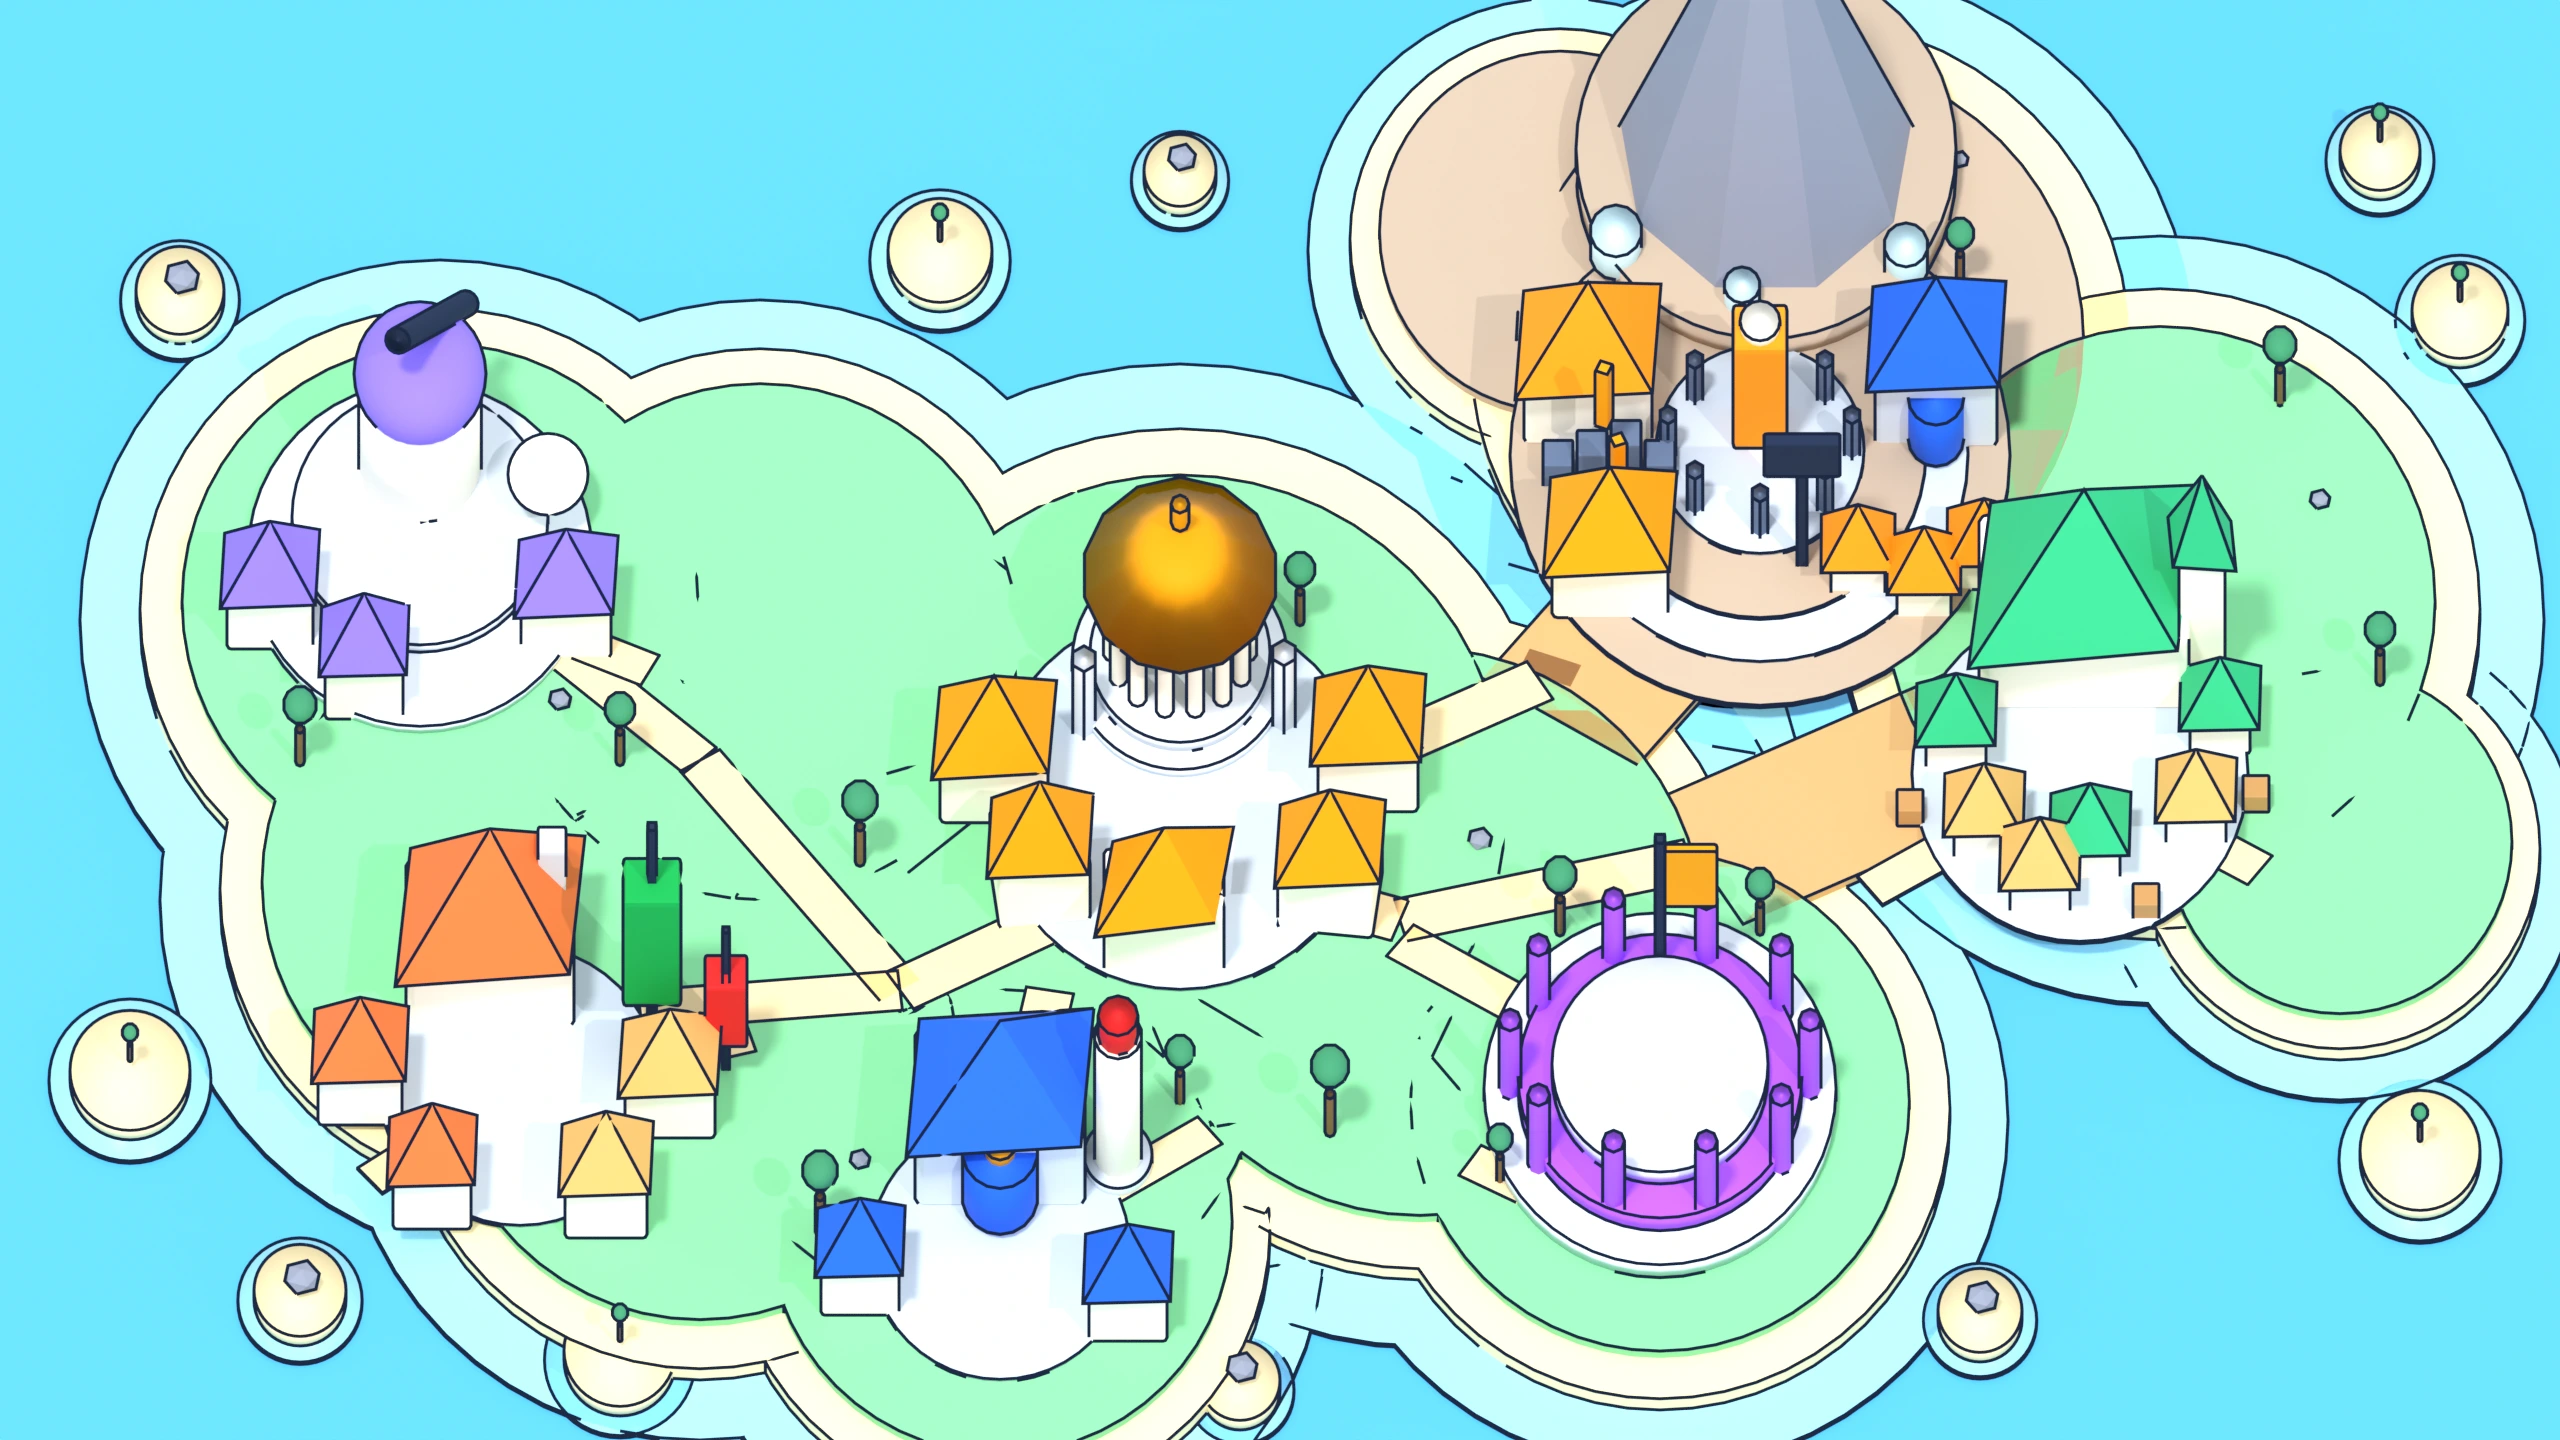
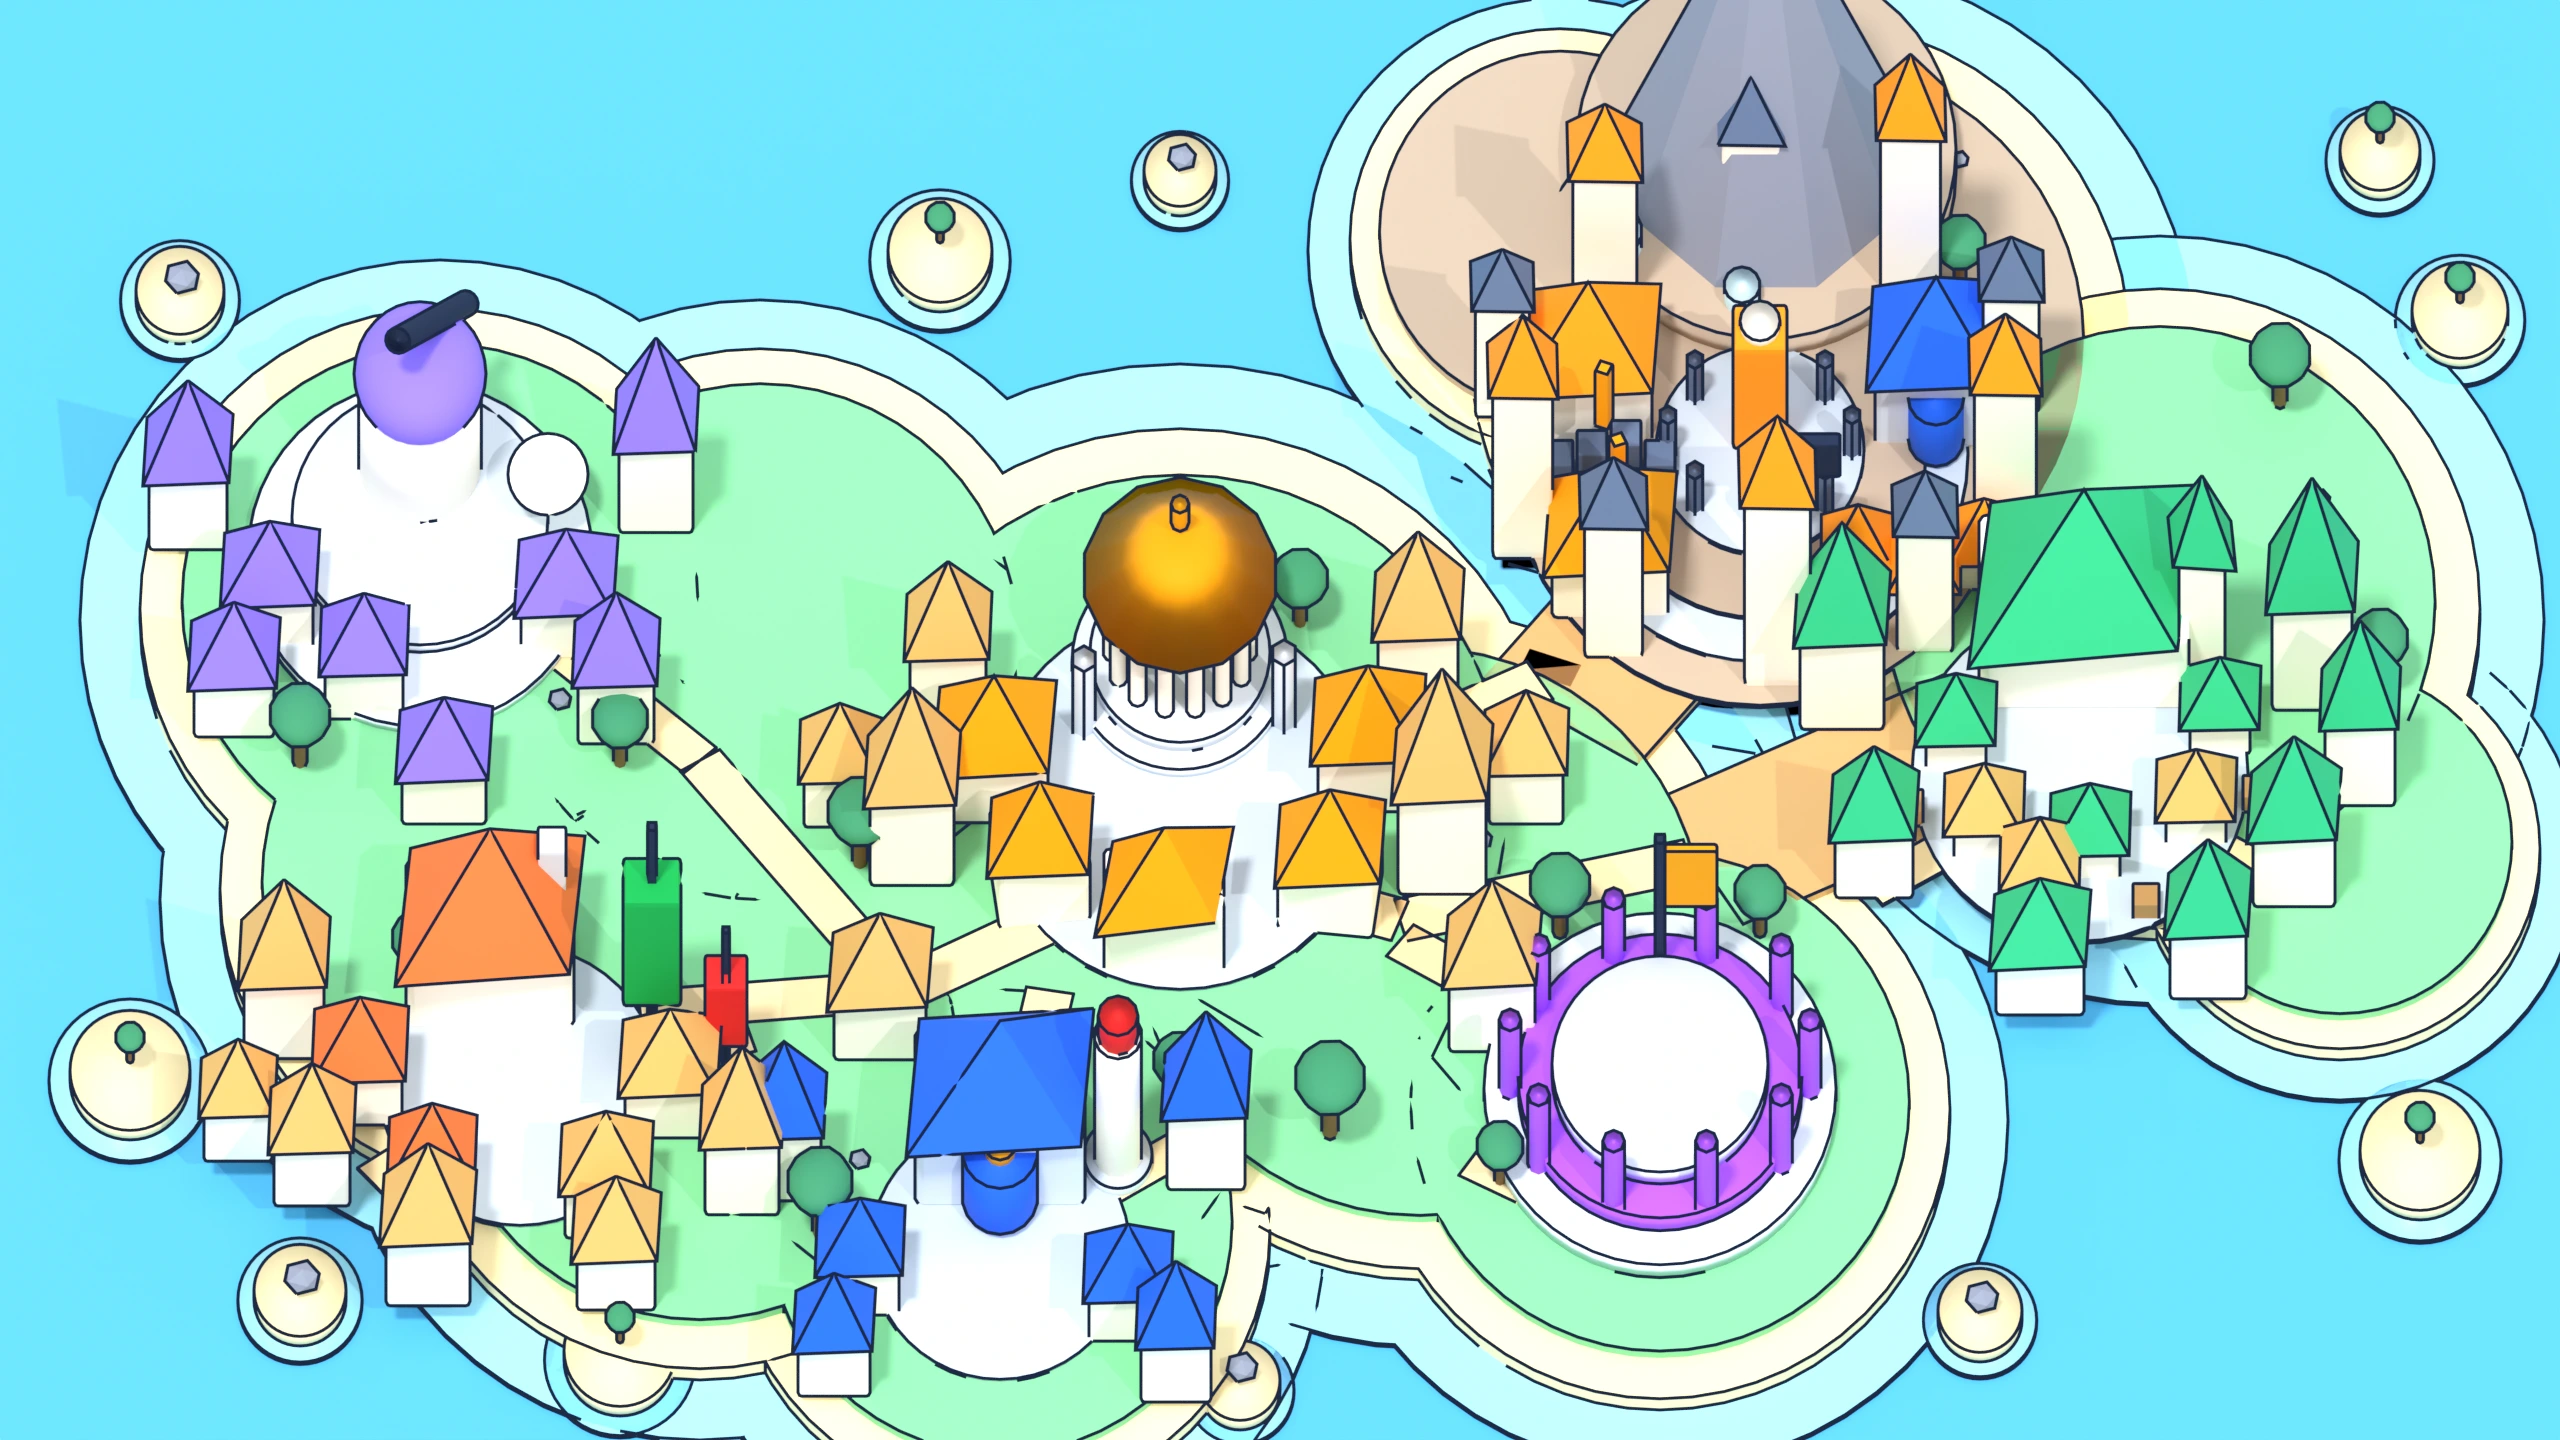
feat: denser city cores and wider tree canopies
Each city gains a ring of buildings at varied heights so the silhouette reads as a skyline rather than a flat hamlet, and Ciudad Bitcoin - the one with documented content - gets ten towers of alternating height around its ring road, making it the most imposing place on the map.

Trees had a 13px canopy on a 3.4px trunk and read as pins stuck in the grass; the canopy is now 24px on a shorter, thicker trunk.

The new blocks covered three approach points, so those moved: market-plaza to (1815,758), candle-workshop to (786,1011), trend-observatory to (661,598). Two Academia blocks also enclosed the plaza the player starts in and left the search with no way out - they were moved off the southern corridor.

diff --git a/src/game/phaser/AcademyAgoraScene.ts b/src/game/phaser/AcademyAgoraScene.ts
@@ -197,19 +197,19 @@ export default class AcademyAgoraScene extends BaseWorldScene {
       {
         id: "market-plaza",
         area: new Phaser.Geom.Rectangle(1900, 580, 400, 340),
-        approach: new Phaser.Math.Vector2(1887, 784),
+        approach: new Phaser.Math.Vector2(1815, 758),
         prompt: "Entrar a Mercado Plaza · Misión 1.1",
       },
       {
         id: "candle-workshop",
         area: new Phaser.Geom.Rectangle(330, 900, 400, 340),
-        approach: new Phaser.Math.Vector2(748, 1077),
+        approach: new Phaser.Math.Vector2(786, 1011),
         prompt: "Entrar al Taller de Velas · Misión 1.2",
       },
       {
         id: "trend-observatory",
         area: new Phaser.Geom.Rectangle(240, 390, 380, 330),
-        approach: new Phaser.Math.Vector2(644, 620),
+        approach: new Phaser.Math.Vector2(661, 598),
         prompt: "Entrar al Observatorio · Misión 1.3",
       },
       {

diff --git a/blender/build_overworld.py b/blender/build_overworld.py
@@ -100,9 +100,9 @@ BITCOIN_HEX = "#F7931A"        # tp-crypto
 REQUIRED_WALKABLE_PX = {
     "player-start": (1180, 1000),
     "approach:aria": (1225, 976),
-    "approach:market-plaza": (1887, 784),      # sobre el puente
-    "approach:candle-workshop": (748, 1077),
-    "approach:trend-observatory": (644, 620),
+    "approach:market-plaza": (1815, 758),
+    "approach:candle-workshop": (786, 1011),
+    "approach:trend-observatory": (661, 598),
     "approach:bitcoin-portal": (1660, 640),    # sobre el puente
     "approach:risk-vault": (1120, 1200),
     "approach:challenge-arena": (1467, 1163),
@@ -473,6 +473,17 @@ def house(cam, name, px, py, w_px, d_px, height, mat_roof, mats, rot=0.0):
                GRASS_TOP + height, mat_roof)
 
 
+def skyline(cam, name, px, py, blocks, mats, mat_roof):
+    """Manzana de edificios alrededor de un centro.
+
+    `blocks` es una lista de (dx, dy, ancho, fondo, altura). La altura varía a
+    propósito: con todos los edificios a la misma cota el conjunto se leía como
+    una aldea plana en vez de un núcleo urbano.
+    """
+    for i, (dx, dy, w, d, h) in enumerate(blocks):
+        house(cam, f"{name}_blk_{i}", px + dx, py + dy, w, d, h, mat_roof, mats)
+
+
 def add_academia(cam, px, py, mats):
     """Academia Ágora — capital académica. Rotonda con columnata sobre plaza.
 
@@ -512,6 +523,14 @@ def add_academia(cam, px, py, mats):
     for i, (dx, dy) in enumerate(((-96, -34), (104, -40))):
         disc_px(cam, f"academia_obelisk_{i}", px + dx, py + dy, 13,
                 GRASS_TOP, 1.5, mats["stone"], verts=6)
+    # Nada al sur del pin: por ahí sale el jugador y ahí está ARIA. Dos bloques
+    # a ±70 px encerraron la plaza y la búsqueda no encontraba salida desde el
+    # punto de partida.
+    skyline(cam, "academia", px, py, [
+        (-268, 96, 84, 60, 1.9), (262, 104, 88, 62, 2.2), (-232, -66, 76, 56, 1.5),
+        (238, -78, 80, 58, 1.7), (-300, 268, 92, 64, 1.3), (312, 262, 86, 60, 1.6),
+        (-340, 40, 72, 54, 1.1), (346, 36, 74, 56, 1.2),
+    ], mats, mats["roof_alt"])
 
 
 def add_mercado(cam, px, py, mats):
@@ -542,6 +561,11 @@ def add_mercado(cam, px, py, mats):
     for i, (dx, dy) in enumerate(((-170, 74), (66, 168), (176, 60))):
         box_px(cam, f"mercado_crate_{i}", px + dx, py + dy, 26, 22, 0.34,
                GRASS_TOP, mats["crate"])
+    skyline(cam, "mercado", px, py, [
+        (-238, -40, 84, 60, 2.0), (232, -58, 80, 58, 2.3), (-206, 130, 78, 56, 1.4),
+        (214, 138, 82, 58, 1.6), (-40, 244, 88, 62, 1.2), (128, 232, 76, 54, 1.5),
+        (280, 40, 70, 52, 1.8),
+    ], mats, mats["mercado"])
 
 
 def add_taller(cam, px, py, mats):
@@ -577,6 +601,10 @@ def add_taller(cam, px, py, mats):
     box_px(cam, "taller_wick2", cx + 74, cy + 30, 7, 7, 3.0, GRASS_TOP, mats["ink"])
     box_px(cam, "taller_candle2", cx + 74, cy + 30, 42, 34, 1.3, GRASS_TOP + 0.8,
            mats["supply"])
+    skyline(cam, "taller", px, py, [
+        (-236, -30, 80, 58, 1.7), (-208, 118, 76, 56, 1.3), (-92, 216, 84, 60, 1.5),
+        (96, 222, 78, 56, 1.2), (222, 128, 74, 54, 1.6), (-282, 76, 68, 50, 1.1),
+    ], mats, mats["roof_alt"])
 
 
 def add_observatorio(cam, px, py, mats):
@@ -609,6 +637,10 @@ def add_observatorio(cam, px, py, mats):
     # Antena parabólica: lee el cielo, igual que el distrito lee la tendencia.
     dome_px(cam, "obs_dish", px + 128, py - 26, 40, GRASS_TOP + 0.9,
             mats["cream"], squash=0.34)
+    skyline(cam, "obs", px, py, [
+        (-232, -18, 78, 56, 1.6), (236, -34, 74, 54, 1.9), (-186, 168, 80, 58, 1.2),
+        (196, 176, 76, 56, 1.4), (24, 254, 84, 60, 1.1),
+    ], mats, mats["observatorio"])
 
 
 def add_boveda(cam, px, py, mats):
@@ -637,6 +669,10 @@ def add_boveda(cam, px, py, mats):
     for i, (dx, dy) in enumerate(((-140, 66), (128, 92))):
         house(cam, f"boveda_house_{i}", px + dx, py + dy, 78, 58, 1.0,
               mats["vault"], mats)
+    skyline(cam, "boveda", px, py, [
+        (-216, -46, 74, 54, 1.5), (206, -58, 78, 56, 1.7), (-166, 150, 72, 52, 1.1),
+        (176, 156, 70, 52, 1.3),
+    ], mats, mats["vault"])
 
 
 def add_arena(cam, px, py, mats):
@@ -751,18 +787,41 @@ def add_ciudad_bitcoin(cam, px, py, mats):
         disc_px(cam, f"btc_steam_{i}", vx + dx, vy + dy, r, GRASS_TOP + 0.3, 0.5,
                 mats["steam"], verts=14)
 
+    # Torres del anillo exterior. Es la ciudad con más material documentado y
+    # tiene que verse como la más imponente del mapa: aquí está el salto de
+    # aldea a skyline.
+    for i, (angle_deg, dist, w, h) in enumerate((
+        (18, 258, 62, 3.4), (52, 268, 56, 2.6), (86, 250, 66, 4.0),
+        (124, 262, 58, 2.9), (158, 256, 60, 3.6), (196, 268, 54, 2.4),
+        (232, 252, 64, 3.1), (268, 262, 58, 2.7), (306, 256, 60, 3.8),
+        (342, 264, 56, 2.5),
+    )):
+        angle = math.radians(angle_deg)
+        tx = px + dist * math.cos(angle)
+        ty = py + 96 + dist * math.sin(angle) * 0.82
+        box_px(cam, f"btc_tower_{i}", tx, ty, w, w * 0.82, h, GRASS_TOP,
+               mats["cream"])
+        pyramid_px(cam, f"btc_tower_top_{i}", tx, ty, w * 1.14, w * 0.94, h * 0.34,
+                   GRASS_TOP + h, mats["bitcoin"] if i % 2 == 0 else mats["btc_block"])
+
 # ─── VEGETACIÓN Y ROCAS ──────────────────────────────────────────────────────
 def add_tree(cam, px, py, mats, scale=1.0):
+    """Árbol de copa ancha.
+
+    Antes la copa medía 13 px sobre un tronco de 3,4: a la escala del mapa se
+    leían como alfileres clavados en la hierba. Copa más ancha y baja, tronco
+    más corto y grueso.
+    """
     step_x, step_y = pixel_scale(cam)
-    disc_px(cam, f"trunk_{px}_{py}", px, py, 3.4 * scale, GRASS_TOP, 0.55 * scale,
+    disc_px(cam, f"trunk_{px}_{py}", px, py, 5.5 * scale, GRASS_TOP, 0.4 * scale,
             mats["trunk"], verts=8)
     base = px_to_world(cam, px, py)
     bpy.ops.mesh.primitive_ico_sphere_add(
         subdivisions=2, radius=1.0,
-        location=(base.x, base.y, GRASS_TOP + 0.95 * scale))
+        location=(base.x, base.y, GRASS_TOP + 0.78 * scale))
     leaves = bpy.context.active_object
     leaves.name = f"leaves_{px}_{py}"
-    leaves.scale = (13 * scale * step_x, 13 * scale * step_y, 11 * scale * step_x)
+    leaves.scale = (24 * scale * step_x, 24 * scale * step_y, 15 * scale * step_x)
     _finish(leaves, mats["leaf"], False, True)
 
 
